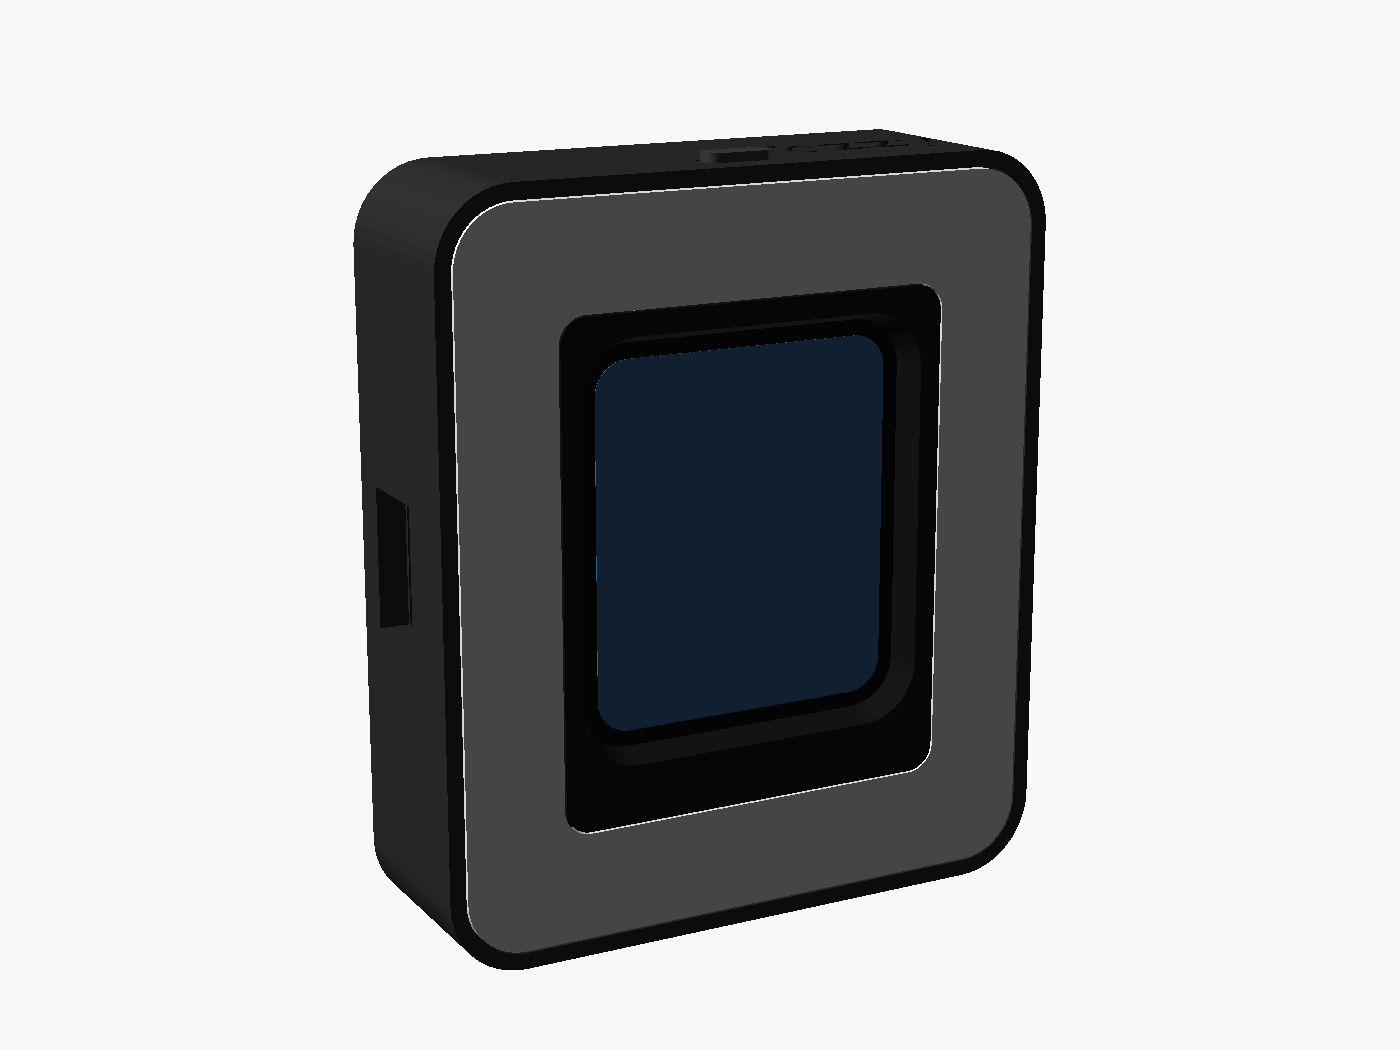
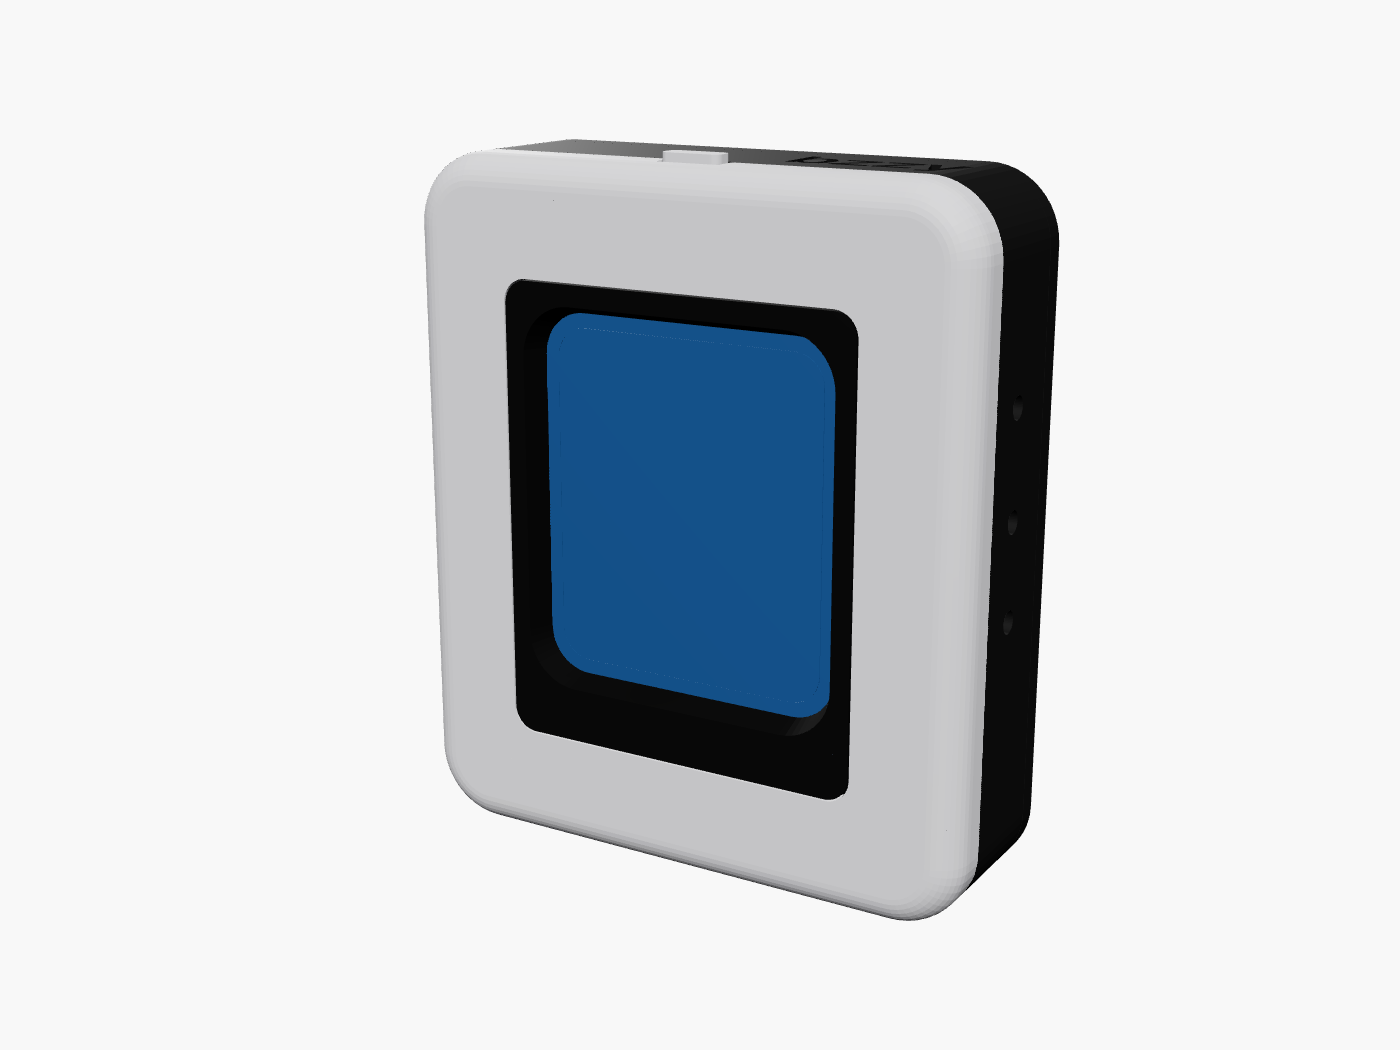
Wrap the frosted light edge round the case sides
The frosted part is now the whole front of the case: it rounds over the
front edge and wraps 5 mm back onto all four sides, so the owner can see
the status from behind or beside the light. Solid frosted plastic over the
LED row carries light out into the band. The black frame becomes a body
behind the band, with a lip that fits a step inside the cap. Back plate,
rail, screws and outside size are unchanged.

The top button cap is frosted (a black one would show as a dark gap), the
wordmark moves back onto the black body, and the desk stand gets the
rounded look with a base that reaches in front of the device to catch the
glow. Main board doc notes the side-LED option and the button question.

Claude-Session: https://claude.ai/code/session_01Logv2B9mSLabzmp7PMojmM

diff --git a/hardware/README.md b/hardware/README.md
@@ -11,7 +11,7 @@ The DIY build is a frame of light around the screen. It has four parts:
 
 1. The **Waveshare ESP32-S3-Touch-LCD-1.69**, the brains and the screen. It's unchanged from the prototype.
 2. A custom **LED ring board** with 16 small RGB LEDs. It sits around the Waveshare board.
-3. A printed **frosted white border**, about 1 cm wide, round the screen. The LEDs light it in the status colour.
+3. A printed **frosted white front**, round the screen and wrapping round the edges onto the sides. The LEDs light it in the status colour.
 4. A printed **black case** round all of it, with a button on top, the bzzy wordmark, and a monitor clip.
 
 Nothing changes in the firmware. The ring board uses the same data pin (GPIO17) and LED count (16) that `firmware/src/config.h` already has.
@@ -102,9 +102,11 @@ To change something, edit the script and run `./render.sh` (needs KiCad 7+ and O
 
 ## Case
 
-[`case/bzzy_case.scad`](case/bzzy_case.scad) is parametric OpenSCAD. The case is black, with the screen in the middle of a frosted white border about 1 cm wide (9.2 mm at the sides, 8.2 mm top and bottom). The LEDs sit under the border. Overall it's about 58 × 67 × 17.5 mm, plus whichever mount it sits on (see [Mounts](#mounts)).
+[`case/bzzy_case.scad`](case/bzzy_case.scad) is parametric OpenSCAD. The screen sits in the middle of a frosted white front that the LEDs light. The frosted part is the whole front of the case: it rounds over the front edge (3 mm radius) and **wraps 5 mm back onto all four sides**, with a black body behind it. A bzzy usually faces away from its owner, towards the people it's telling, so the glow on the sides, and the colour the bottom edge throws onto the desk or stand, let the owner see their own status from behind or beside it. Overall it's about 58 × 67 × 17.5 mm, plus whichever mount it sits on (see [Mounts](#mounts)).
 
-Looking at the front, from the middle out: the screen, set 2.5 mm deep behind a black trim over the Waveshare board's own glass edge (the window opens out at 45° so it doesn't shade the screen), the frosted border, then a 1.4 mm black rim. The border starts at the Waveshare board's edge, not at the lit screen, because no LED can sit under the board. The ring board didn't need to change for this.
+Looking at the front, from the middle out: the screen, set 2.5 mm deep behind a black trim over the Waveshare board's own glass edge (the window opens out at 45° so it doesn't shade the screen), then frosted white all the way to the edge and round it (10.75 mm at the sides, 11.25 mm top and bottom). The frosted area starts at the Waveshare board's edge, not at the lit screen, because no LED can sit under the board.
+
+**Why it's built this way.** The LEDs face forwards, so most of their light goes out of the front. Over the LED row the frosted cap is solid plastic (`FILL`, 2.4 mm in from the walls), not a thin plate over an air gap, so light scatters in it and spreads out into the band. Expect the band to be dimmer than the front. `BAND` sets how far it wraps; 5 mm is the most this case takes, because deeper would reach the USB-C opening (the file checks this). The design and the options behind it: [wraparound light edge spec](https://claude.ai/artifact/924eMiRco7rqjTJb4s8GJ1), 2026-11-22.
 
 Export a part with:
 
@@ -116,23 +118,23 @@ openscad -D 'PART="light"' -o light.stl case/bzzy_case.scad   # or frame, back, 
 
 | Part | Colour and material | Notes |
 |---|---|---|
-| light | **Frosted white.** Translucent white PETG, or clear or white resin (SLA) with a matte finish | The glowing border. 1.6 mm thick at the front, about 2.4 mm in front of the LEDs. Its outer lip sits over the frame's rim, and four bosses take the screws. Print it face down |
-| frame | **Black.** PLA, PETG, or MJF nylon (PA12, dyed black) | Front rim and the four side walls, with the USB-C opening on the left, pinholes for the Waveshare's PWR, BOOT and RST buttons on the right, and the button hole and wordmark on top. Print it face down |
+| light | **Frosted white.** Translucent resin (SLA), sanded or bead-blasted matte. Natural PETG at a pinch. **Not MJF nylon**: it's grey and nearly opaque | The front cap: front face (1.6 mm), rounded edge, the 5 mm band round the sides, solid frosted plastic over the LED row, and four bosses for the screws. A step inside its back edge takes the body's lip. Print it face down. In PETG the rounded edge overhangs where it meets the bed, so resin gives a much cleaner edge |
+| frame | **Black.** PLA, PETG, or MJF nylon (PA12, dyed black) | The body: the four side walls behind the band, with the USB-C opening on the left, pinholes for the Waveshare's PWR, BOOT and RST buttons on the right, the wordmark on top, and a lip round the inside of its front edge. Print it back edge down |
 | back | **Black** | Back plate. Four posts press the ring board forward and the screws go through them. Dovetail rail for the clip |
 | trim | **Black** | Sleeve round the Waveshare board, with the thin trim round the screen. Keeps LED light off the display. The light ring holds it down |
-| button | **Black** | Cap for the top button. Sits in a pocket in the frame's top wall, held in by its flange. Print it flange down |
+| button | **Frosted white**, same as the light | Cap for the top button. It passes through the frosted band, so a black cap would show as a dark gap in the glow. Held in by its flange, in a pocket split between the cap and the body. Print it flange down |
 | clip | **Black.** PETG or nylon (needs some flex) | Slides up the rail. Two legs rest on the monitor's top edge, with a lip at the front and a drop at the back. Set `MONITOR_T` to your monitor's thickness |
 
-**For a print service** (JLC3DP, Craftcloud, a local shop): order `light.stl` in translucent or white resin, and the other five in black. MJF nylon in black is tough and has no visible layers, which suits the frame and clip. Resin is fine for the light ring, but ask for the "translucent" or "semi-transparent" option with a matte or sanded finish, so the LEDs don't show as dots. None of the parts need supports in the orientation they're exported in, except the back plate, which stands on its rail. Ask the service to orient it, or use MJF or resin, where it doesn't matter.
+**For a print service** (JLC3DP, PCBWay, Craftcloud, a local shop): order `light.stl` and `button.stl` in translucent resin, and the other four in black. Ask for the "translucent" or "semi-transparent" option with a matte, sanded or bead-blasted finish, so the LEDs don't show as dots. MJF nylon in black is tough and has no visible layers, which suits the body, back and mounts. None of the parts need supports in the orientation they're exported in, except the back plate, which stands on its rail. Ask the service to orient it, or use MJF or resin, where it doesn't matter.
 
 ### How it goes together
 
-1. Put the button cap into its pocket in the frame's top wall, from the inside.
-2. Hold the frame face up and drop the light ring in from the front, so its lip sits on the frame's rim. Turn the two over together, face down on the table.
-3. Put the trim in from the back, face down, through the light ring's middle.
-4. Put the ring board, LEDs down, onto the light ring's bosses, then the Waveshare board into the trim. The button cap now rests just off the switch.
-5. Put a square of 3 mm foam tape on the back of the Waveshare board, then put the back plate on and do up the four M2 screws. They pull the light ring back, and its lip clamps the frame's rim against the back plate. No glue.
-6. Slide the clip up the rail.
+1. Put the front cap face down on the table. Put the button cap into its hole in the cap's top band, from the inside.
+2. Put the trim in from the back, face down, through the cap's middle.
+3. Put the ring board, LEDs down, onto the cap's bosses, then the Waveshare board into the trim. The button cap now rests just off the switch.
+4. Lower the body over everything, front edge down, so its lip drops into the step inside the cap. The other half of the button's pocket closes round its flange.
+5. Put a square of 3 mm foam tape on the back of the Waveshare board, then put the back plate on and do up the four M2 screws. They pull the cap back onto the body, which clamps the body against the back plate. No glue.
+6. Drop it onto a mount.
 
 ### The top button
 
@@ -144,8 +146,8 @@ The switch only travels 0.2 mm, and its plunger tip sits on the board's routed e
 
 | `LOGO` | Where |
 |---|---|
-| `"top"` (default) | Top face, right of the button. People standing at your desk see it |
-| `"chin"` | Front, in a 9 mm black chin below the border. The device gets taller and the screen sits above centre |
+| `"top"` (default) | Top face, right of the button, on the black body just behind the frosted band. People standing at your desk see it |
+| `"chin"` | Front, in a 9 mm chin below the screen. The chin is part of the frosted cap, so it glows faintly. The device gets taller and the screen sits above centre |
 | `"back"` | Back plate, above the clip rail. Hidden when the device is on the monitor |
 | `"none"` | No wordmark |
 
@@ -172,7 +174,7 @@ The rail is built from `RAIL_W`, `RAIL_T`, `RAIL_FIT` and `RAIL_L` in `case/bzzy
 
 | Mount | What it's for | Extra parts |
 |---|---|---|
-| `stand` | Desk stand. Leans the device back 15° (`STAND_TILT`) on a 52 × 50 mm base. The USB-C cable comes out the left side, clear of the base | Four small rubber feet, if you like |
+| `stand` | Desk stand, all soft rounded edges. Leans the device back 15° (`STAND_TILT`) on a 52 × 56 mm base that reaches 10 mm in front of the device (`STAND_FRONT`), so the glow from the bottom edge lands on it. The USB-C cable comes out the left side, clear of the base | Four small rubber feet, if you like |
 | `tripod` | A 1/4"-20 camera thread under a block behind the device. Fits mini tripods, phone clamp arms, monitor-arm camera mounts and suction-cup mounts | One 1/4"-20 hex nut (7/16" across flats). Press it into the pocket from the top. A drop of glue if it's loose |
 | `magnet` | Flat plate with four magnet pockets in its back. Sticks to a filing cabinet, steel cubicle panel, whiteboard or fridge. Without magnets, stick it to a wall with double-sided tape | Four 10 × 3 mm disc magnets (N42 or N52). Glue them in flush with CA or epoxy |
 

diff --git a/docs/hardware/main-board.md b/docs/hardware/main-board.md
@@ -213,6 +213,8 @@ PCF85063 (same chip as Waveshare, same firmware driver) with a 32.768 kHz crysta
 - **Rev D items fold in here**: the review tweaks from the ring board thread and the firmware LED cap 400 → 250 mA. (Ring-board rev D carries on separately, for the DIY build only.)
 - The full ring stays: the antenna sticks out past the top edge (section 7), so no LEDs have to move.
 - Top button: the same Alps SKRT side-push switch on the top edge, to GPIO18 with the internal pull-up. Unchanged behaviour.
+- **Wraparound frosted edge (2026-11-22):** the case's frosted front now wraps about 5 mm onto all four sides, so the owner can see the status from behind ([hardware/README.md](../../hardware/README.md#case), [spec](https://claude.ai/artifact/924eMiRco7rqjTJb4s8GJ1)). The plan is to keep the 16 forward-facing LEDs (Adam leans to this, option 2). If the rev D light test in December shows the band is too dim from behind, option 3 adds about 8 side-emitting addressable LEDs (4020 side-view, two per edge) on the board edges, chained after the 16, under the same 250 mA cap. **Leave the board edges clear enough for those pads until that test is done.**
+- **Top button, open:** in the wraparound case the button passes through the glowing band. Before layout, decide whether to move it to the black body or back, or drop it and use the touch screen instead (for example, a long press at power-up for setup).
 
 ### 6.6 PCB
 
